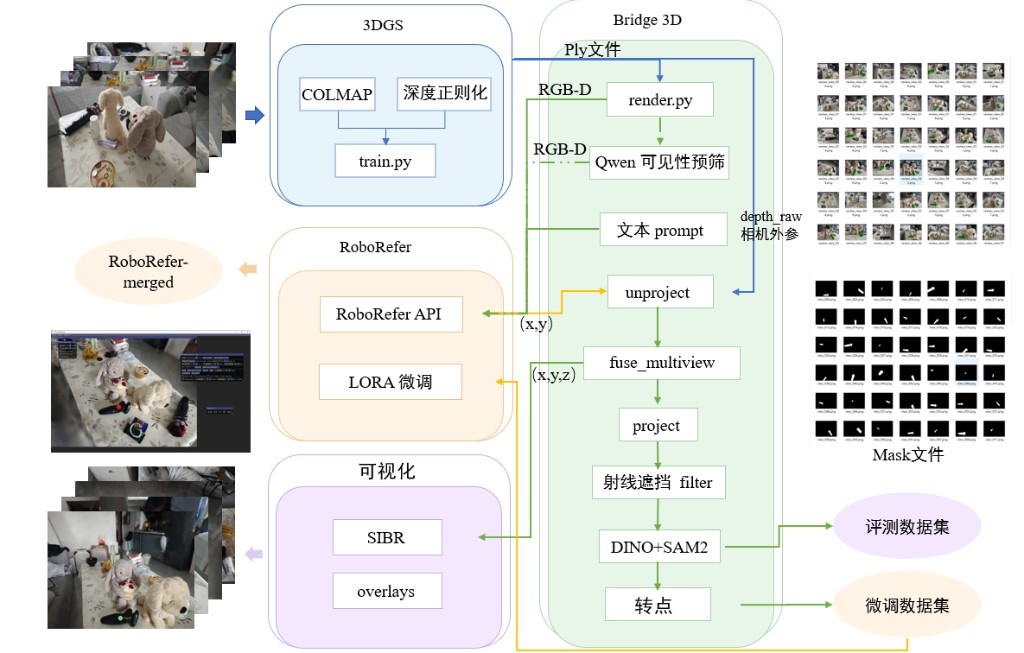
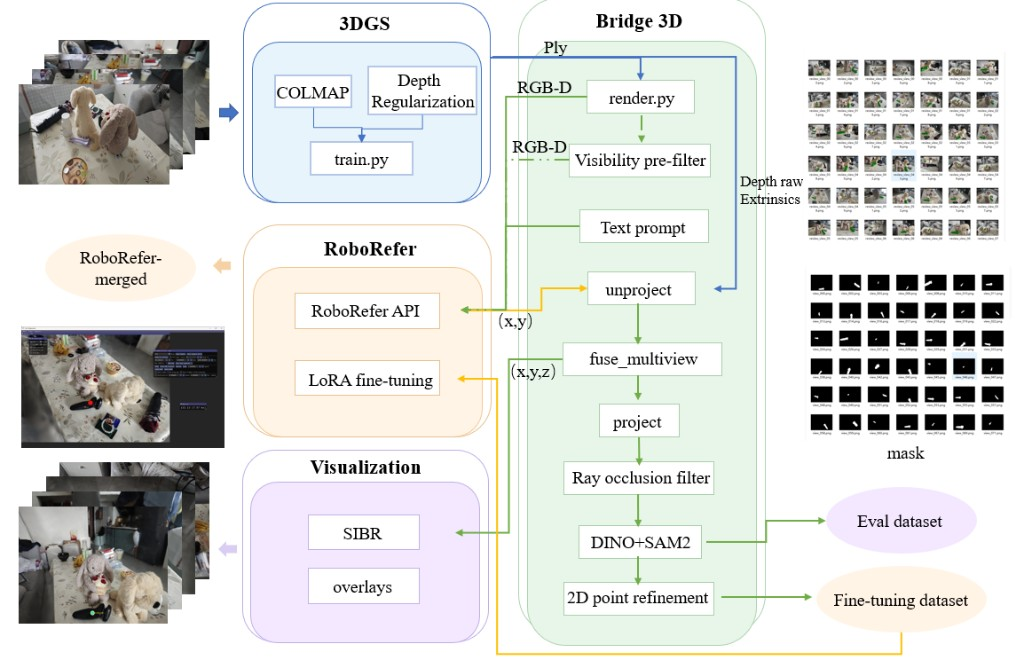
docs: replace README pipeline figure with English diagram
Update demo/pipeline.png and align Pipeline section text with 3DGS / Bridge 3D / RoboRefer layout.

diff --git a/README.md b/README.md
@@ -6,11 +6,15 @@ Research integration repo — original code is mainly [`bridge/`](bridge/). Upst
 
 ## Pipeline
 
-End-to-end flow: **3DGS scene** → multi-view render → **RoboRefer** (language → 2D points) → **unproject + fuse** → world-space **3D anchor**; optional branch builds **469** RGB-D SFT samples and **2B LoRA** fine-tuning.
-
 ![GSrefer3D end-to-end pipeline](demo/pipeline.png)
 
-**A · Online referring** (each e2e): render → API → unproject → fuse → overlay / SIBR. **B · Training loop** (offline): `P_world` → project → ray filter → DINO+SAM2 → export → LoRA → merged → API.
+**3DGS** (once per scene): multi-view photos → COLMAP + optional depth regularization → `train.py` → `point_cloud.ply`.
+
+**Bridge 3D** — **online referring**: `render.py` (RGB-D + `depth_raw` + extrinsics) → optional visibility pre-filter → **RoboRefer API** (text → 2D) → **unproject** → **fuse_multiview** → `P_world` → **SIBR / overlays**.
+
+**Bridge 3D** — **offline training data** (469 RGB-D Location): `P_world` → **project** → **ray occlusion filter** → **DINO + SAM2** → **2D point refinement** (mask centroid) → export → **fine-tuning dataset** → **LoRA** → merged weights → API.
+
+Side outputs: multi-view **masks** (SAM2) and **eval** overlays vs synthetic GT.
 
 ## Highlights
 